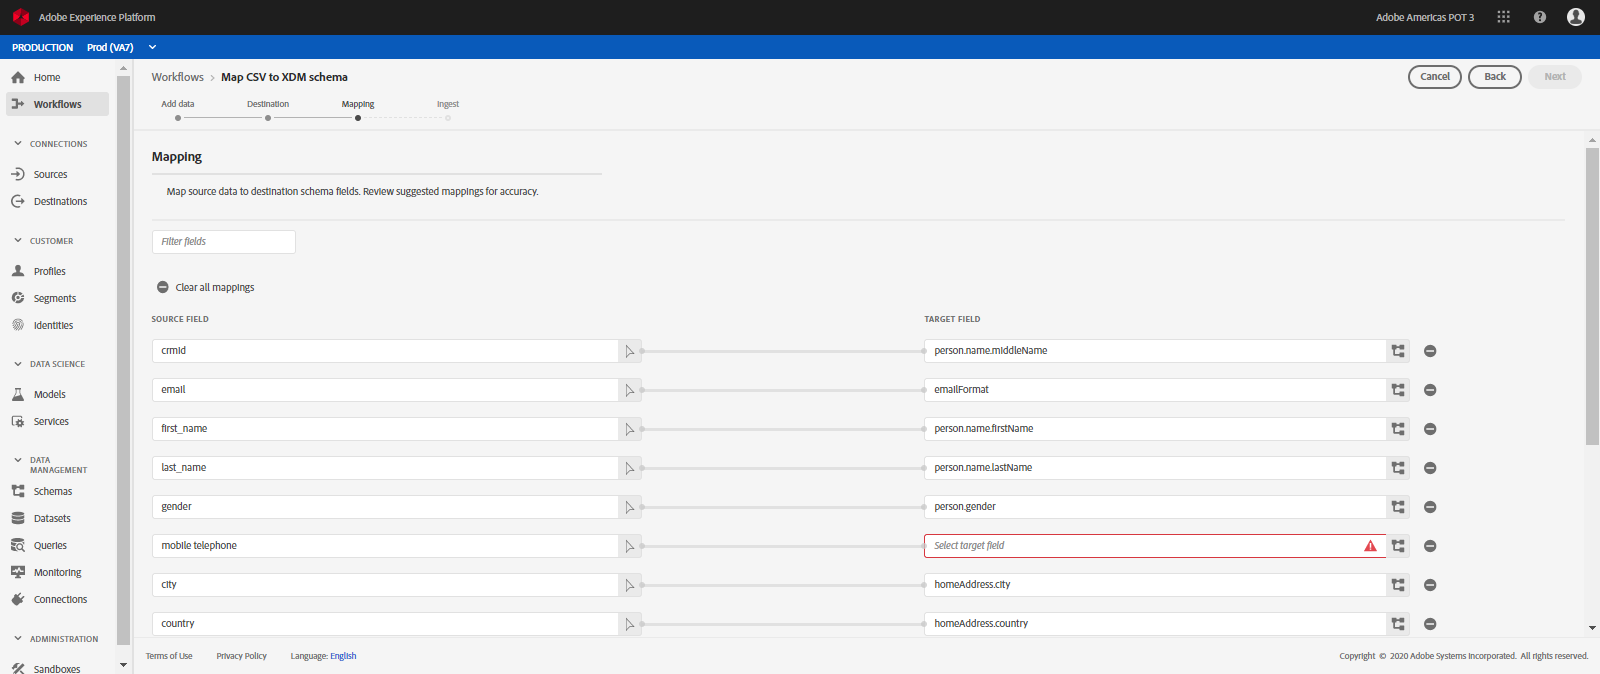
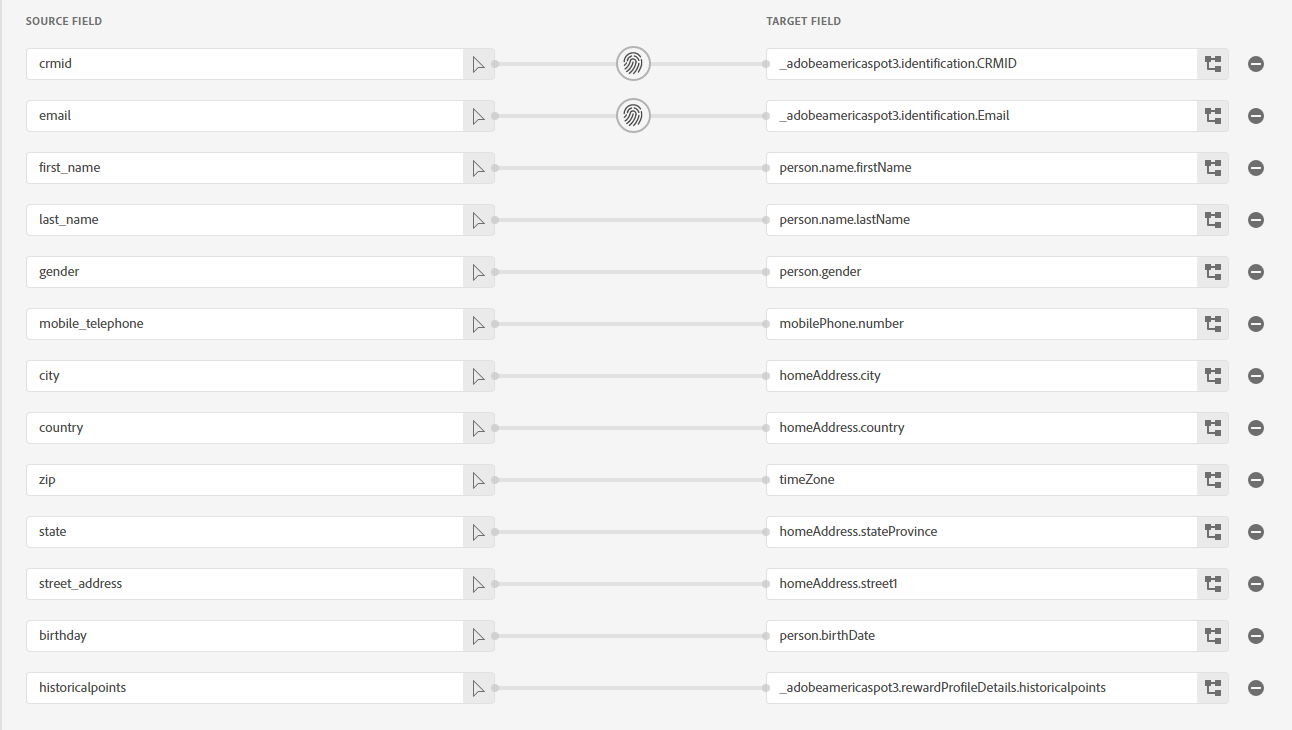
Ingestion

diff --git a/labs/travel/Foundations/Ingestion.md b/labs/travel/Foundations/Ingestion.md
@@ -1,5 +1,5 @@
-Lab - Ingestion - CSV to XMD Mapping
-==========
+# Lab - Ingestion - CSV to XMD Mapping
+
 <table style="border-collapse: collapse; border: none;" class="tab" cellspacing="0" cellpadding="0">
 
 <tr style="border: none;">
@@ -50,8 +50,7 @@ Lab - Ingestion - CSV to XMD Mapping
 </tr>
 </table>
 
-Instructions:
------------------
+## Instructions:
 
 Go to https://platform.adobe.com/home
 
@@ -60,71 +59,65 @@ Go to https://platform.adobe.com/home
 
       ![Demo](./images/ingestionhome.png)
 
-
 2. We will be ingesting an adhoc CSV file. Please select "Map CSV to XDM schema"
 
 
       ![Demo](./images/ingestcsvtoxdm.png)
-      
-      
+
+
+
 3. Hit Launch to start the workflow
 
 
       ![Demo](./images/ingestcsvtoxdmlaunch.png)
 
-
-4. First step in the workflow is to Add data. 
+4. First step in the workflow is to Add data.
 
 
       ![Demo](./images/ingestionadddata.png)
-      
 
-5. Drag and drop the 'crm_data_xxx.csv' file profiled in the lab downloads. Within a few seconds you will see a preview of the data. Hit 'Next' 
+
+5. Drag and drop the 'crm_data.csv' file profiled in the lab downloads. Within a few seconds you will see a preview of the data. Hit 'Next'
 
 
       ![Demo](./images/ingestionadddata1.png)
-      
-      
-6. The next step is to select a Destination for this data. Search for 'Profile Dataset' , select it and hit Next 
+
+
+
+6. The next step is to select a Destination for this data. Search for 'CRM Profile Dataset' , select it and hit Next
 
 
       ![Demo](./images/ingestiondestination.png)
-      
-      
+
+
+
 7. Next, we need to map the CSV file fields to the XDM fields in the schema. The mapper tried to parse and map fields however there are some that were not mapped or are mis mapped. We will make corrections.
 
 
-
       ![Demo](./images/ingestionmapper.png)
-      
 
-8. To re map a field click the  ![Demo](./images/remap.png) icon to open the schema. Remapping the list is left as a excersise for the participant.
 
-    Once corrected the mappings should like shown in the screenshot below. Once you have verified that the mappings are correct, hit Next.
+8. To re map a field click the ![Demo](./images/remap.png) icon to open the schema. Remapping the list is left as a excersise for the participant.
+
+   Once corrected the mappings should like shown in the screenshot below. Once you have verified that the mappings are correct, hit Next.
 
 
     ![Demo](./images/ingestionmapper1.png)
 
-
-9. Finally, we are ready to ingest the data. Hit 'Ingest' 
+9. Finally, we are ready to ingest the data. Hit 'Ingest'
 
 
     ![Demo](./images/ingestioningest.png)
-
 
 10. After a few mins, Adobe Experience Platform will start the workflow of converting the CSV file data to XDM format. This process takes a few mins. once completed hit the 'Finish' to complete the workflow.
 
 
     ![Demo](./images/ingestionfinish.png)
 
-
-
 11. Congratulation !! we have imported an adhoc file into platform.
 
- 
 <br>
 <br>
 <br>
 
 Return to [Lab Agenda Directory](https://github.com/adobe/AEP-Hands-on-Labs/blob/master/labs/travel/README.md#lab-agenda)
-
